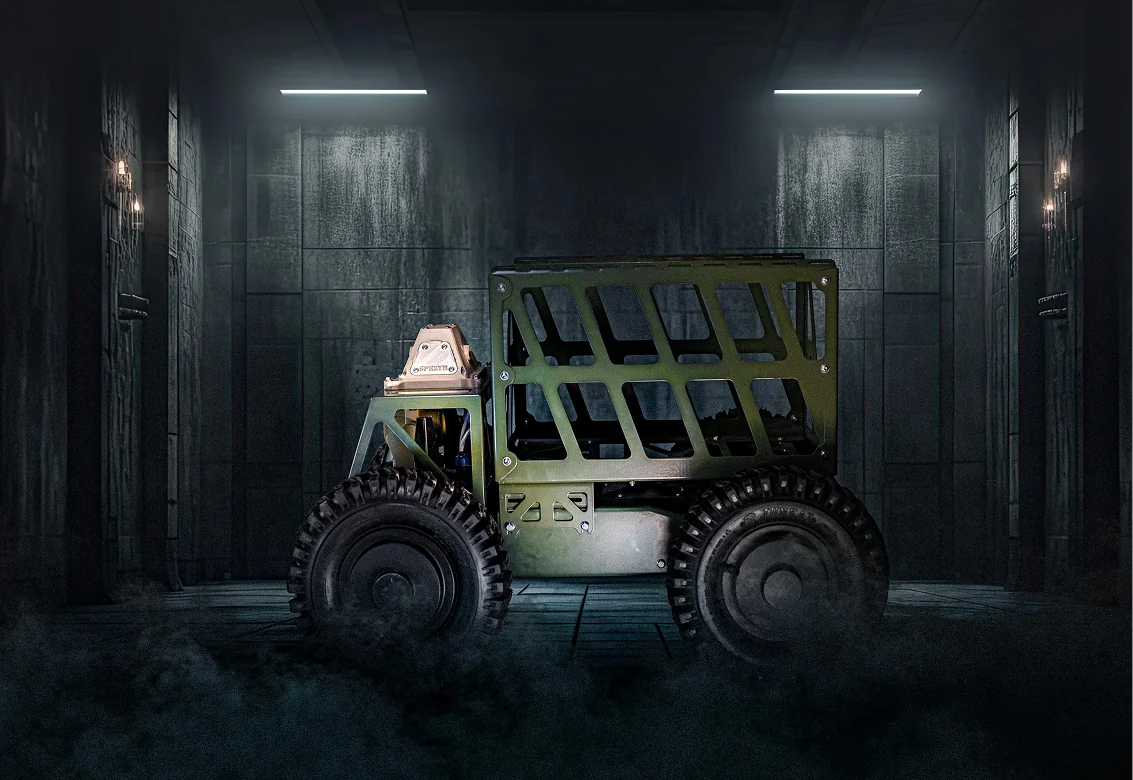
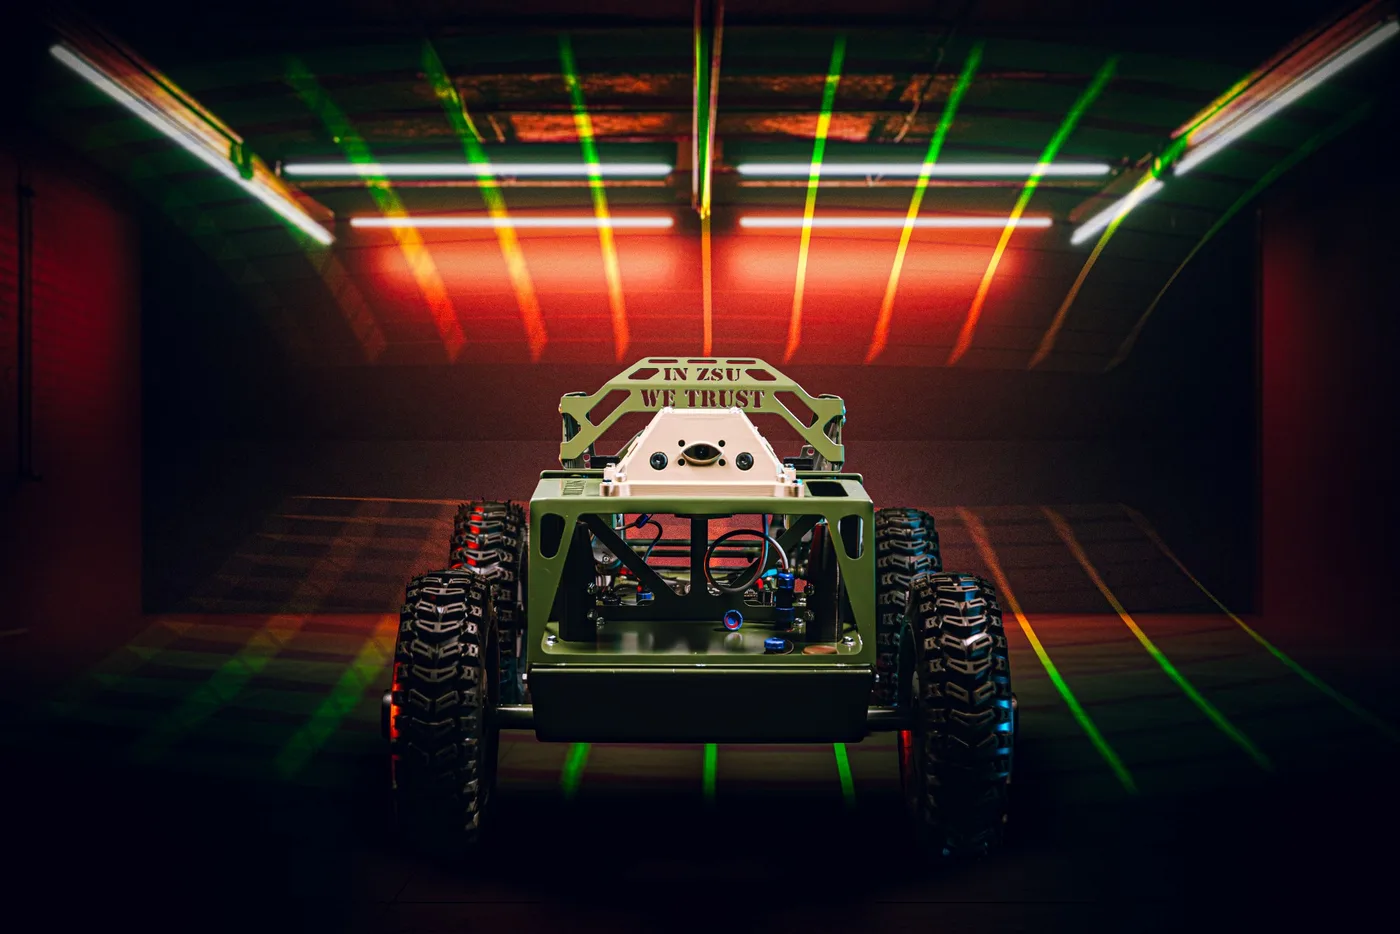
Fix duplicate pano photo and add two more UGV shots
pano-2 was an accidental duplicate of pano-1 (same file, wrong alt
text) — replaced it with a real distinct hangar-style photo, and
added two more real UGV photos (near sandbags on position).

Claude-Session: https://claude.ai/code/session_01CptMh9tjFfsFCjEPKrRmXP

diff --git a/js/asymmetrica.js b/js/asymmetrica.js
@@ -95,13 +95,15 @@
   var TRACKS = {
     pano: [
       { src: '../assets/pano-1.webp', alt: 'НРК на мховій купині', ratio: 1133 / 780 },
-      { src: '../assets/pano-2.webp', alt: 'НРК в ангарі',        ratio: 1133 / 780 },
+      { src: '../assets/pano-2.webp', alt: 'НРК в ангарі',        ratio: 1400 / 934 },
       { src: '../assets/pano-3.webp', alt: 'НРК у струмку',        ratio: 1121 / 779 },
       { src: '../assets/pano-4.webp', alt: 'НРК Spextr і крило на полі',              ratio: 1050 / 1400 },
       { src: '../assets/pano-5.webp', alt: 'НРК Spextr на випробувальному полігоні',  ratio: 1050 / 1400 },
       { src: '../assets/pano-6.webp', alt: 'НРК Spextr крупним планом на полігоні',   ratio: 1050 / 1400 },
       { src: '../assets/pano-7.webp', alt: 'НРК Spextr зі знятим кузовом',            ratio: 1400 / 933 },
-      { src: '../assets/pano-8.webp', alt: 'НРК Spextr з мінним обладнанням',         ratio: 934 / 1400 }
+      { src: '../assets/pano-8.webp', alt: 'НРК Spextr з мінним обладнанням',         ratio: 934 / 1400 },
+      { src: '../assets/pano-9.webp', alt: 'НРК Spextr біля мішків з піском',         ratio: 1050 / 1400 },
+      { src: '../assets/pano-10.webp', alt: 'НРК Spextr на позиції з мішками',        ratio: 1050 / 1400 }
     ],
     grid: [
       { src: '../assets/grid-1.webp', alt: 'Пульт FPV',            ratio: 1400 / 800 },

diff --git a/html/index.html b/html/index.html
@@ -422,6 +422,6 @@
   <script src="../js/countries.js?v=5"></script>
   <script src="../js/mobile-menu.js?v=1"></script>
   <script src="../js/hero-video.js?v=2"></script>
-  <script src="../js/asymmetrica.js?v=16"></script>
+  <script src="../js/asymmetrica.js?v=17"></script>
 </body>
 </html>
